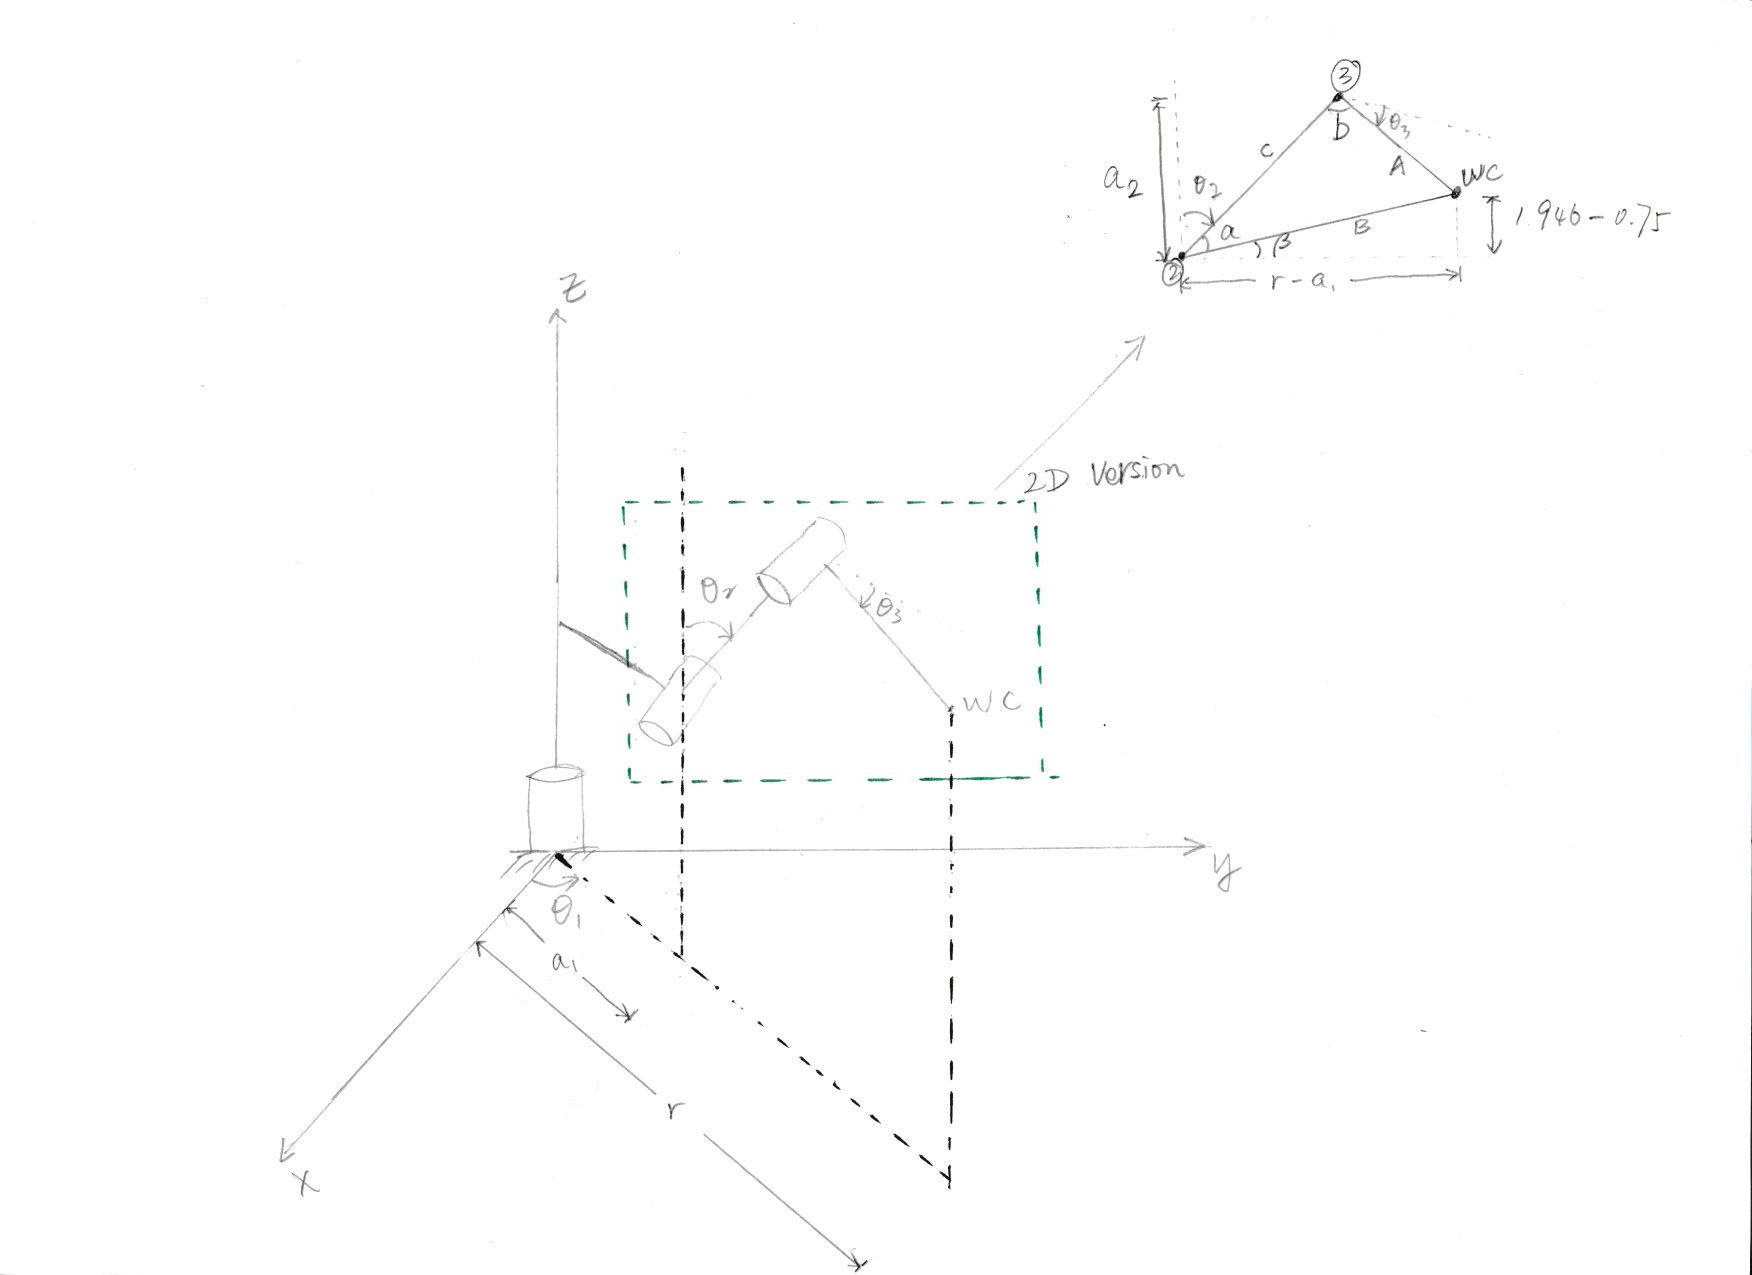
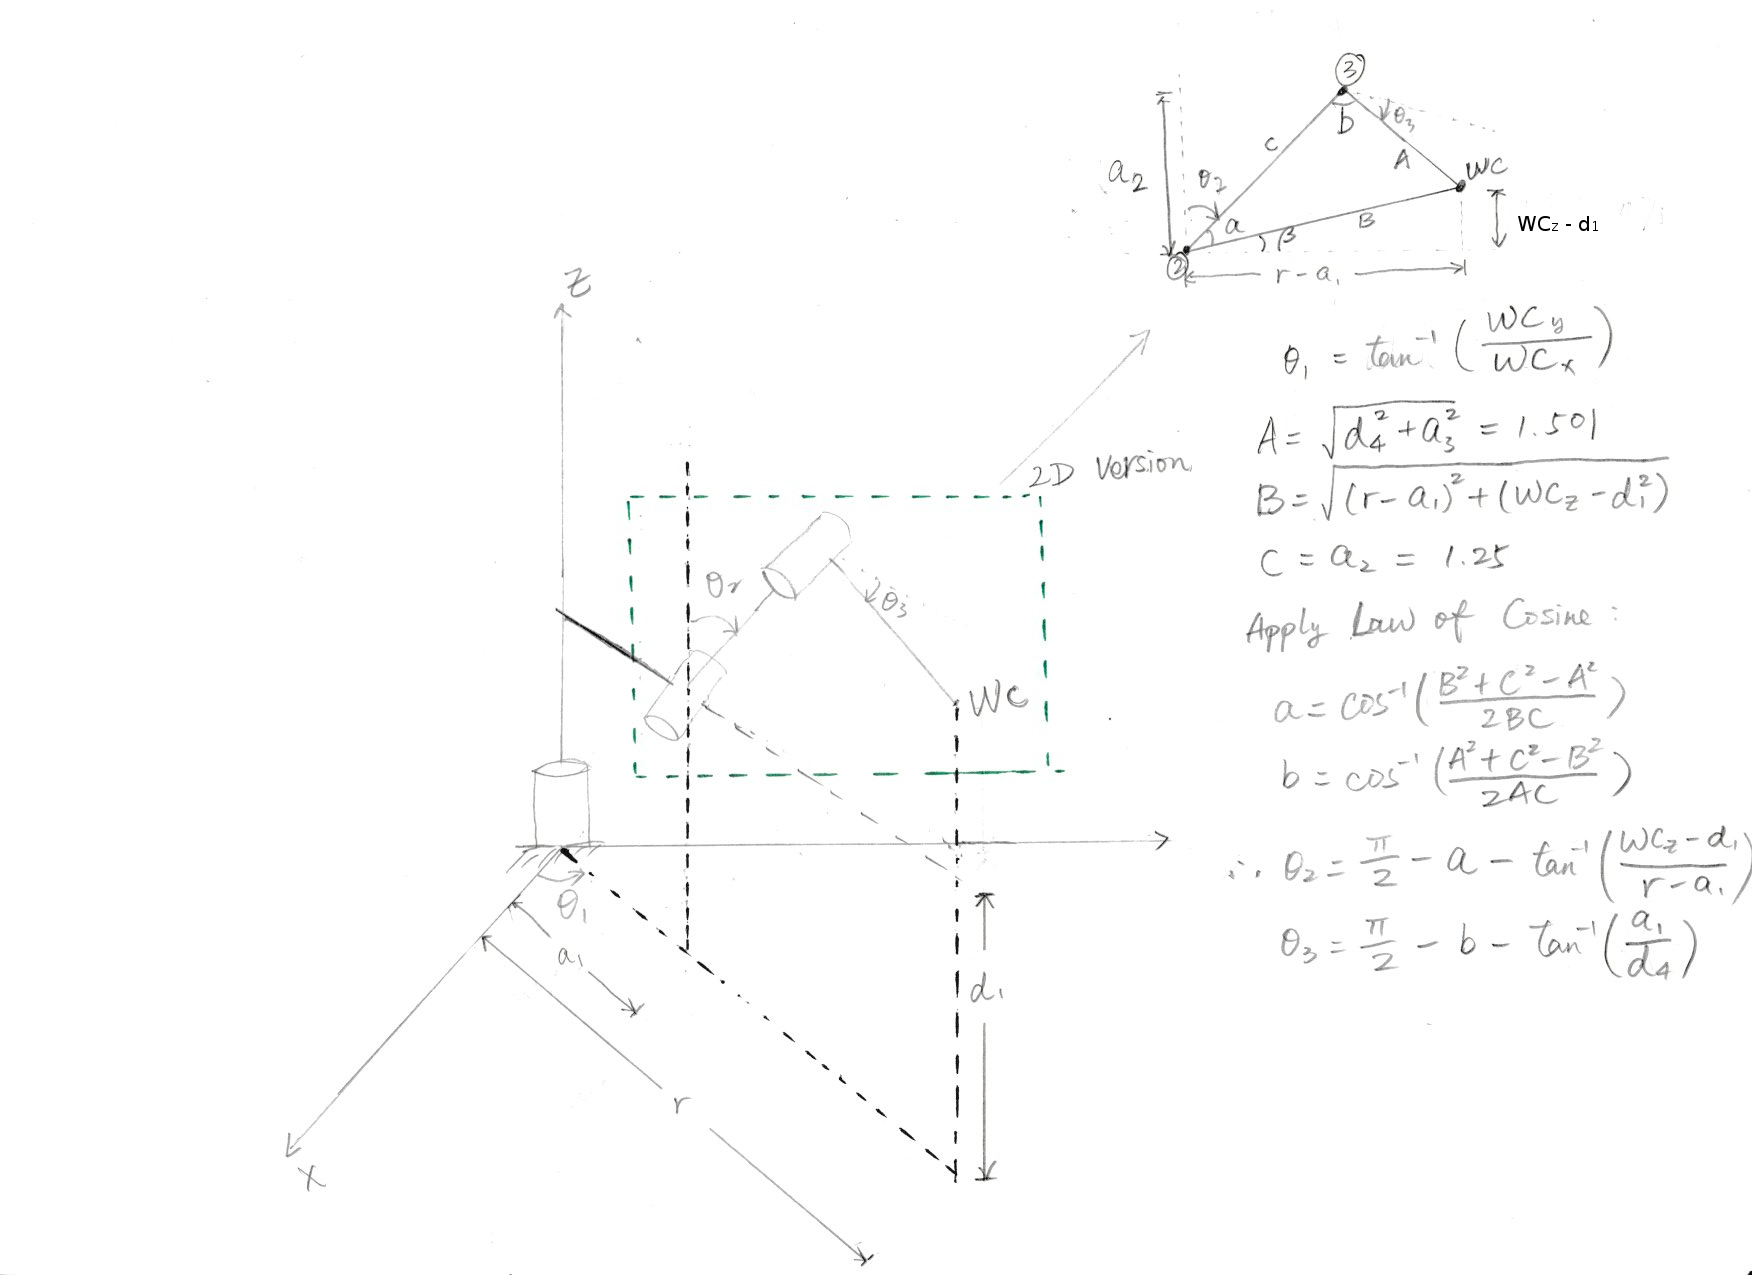
updated

diff --git a/project_2_robotic_arm/src/RoboND-Kinematics-Project/README.md b/project_2_robotic_arm/src/RoboND-Kinematics-Project/README.md
@@ -14,7 +14,6 @@ This project focuses on controlling kuka arm to pick up target and drop it into 
 [mat]: ./img/matrix.png
 [wc]: ./img/wc_cal.png
 [wc_math]: ./img/wc_cal_math.png
-[equ]: ./img/CodeCogsEqn.gif
 
 ## Project Procedure
 ### Obtain DH parameter table
@@ -109,22 +108,43 @@ To compute the wrist center analytically, one can use equation:
 where <sup>0</sup><sub>6</sub>R is the rotation from base_link to joint 6 and d is the d<sub>G</sub> in the DH parameter table. Since the end-effector position and orientation are known, <sup>0</sup><sub>6</sub>R is just the rotation matrix of the end-effector. 
 
 ##### Inverse Orientation Kinematics
-Now we have wrist center figured out, the joint angles for the first three joints are next to calculate. The sketch below helps in the calculation:
-
+Now we have wrist center figured out, the joint angles for the first three joints are next to calculate. The sketch below shows the problem setup and calculations for the first three joints. 
 ![sketch]
 
-![equ]
+With theta1, theta2, theta3 computed, one can apply the forward kinematics matrices for the first three joints. As a result, 
+```
+<sup>0</sup><sub>3</sub>R = T0_1[0:3, 0:3] * T1_2[0:3,0:3] * T2_3[0:3,0:3]
+```
+One can use the equation in Forward Kinematics section to derive the rotation from joint 3 to joint 6:
+```
+<sup>0</sup><sub>6</sub>R = <sup>0</sup><sub>3</sub>R * <sup>3</sup><sub>6</sub>R
+```
+Hence,
+```
+<sup>3</sup><sub>6</sub>R = (<sup>0</sup><sub>3</sub>R)<sup>T</sup> * <sup>0</sup><sub>6</sub>R 
+```
+Here, we use the fact that rotation matrix is orthonormal so its inverse is the transpose. Since we have numerical representation of the matrix, as well as the symbolic representation (expression below), we can associate the numerical value and corresponding expression to obtain remaining joint angles 
 
+```
+R3_6 = Matrix([
+			  [-sin(q4)*sin(q6) + cos(q4)*cos(q5)*cos(q6), -sin(q4)*cos(q6) - sin(q6)*cos(q4)*cos(q5), -sin(q5)*cos(q4)],
+			  [sin(q5)*cos(q6),                           -sin(q5)*sin(q6),          cos(q5)],
+			  [-sin(q4)*cos(q5)*cos(q6) - sin(q6)*cos(q4),  sin(q4)*sin(q6)*cos(q5) - cos(q4)*cos(q6),  sin(q4)*sin(q5)]])
+```
 
-### Project Implementation
+Joint angles can be found with numerical `R3_6`:
+```
+theta4 = atan2(R3_6[2,2], -R3_6[0,2])
+theta5 = atan2(sqrt(R3_6[0,2]**2 + R3_6[2,2]**2), R3_6[1,2])
+theta6 = atan2(-R3_6[1,1], R3_6[1,0])
+```
+Note that `atan2` is used for the angles because it takes appropriate angle sign into account, avoiding angle ambiguity. 
 
-#### 1. Fill in the `IK_server.py` file with properly commented python code for calculating Inverse Kinematics based on previously performed Kinematic Analysis. Your code must guide the robot to successfully complete 8/10 pick and place cycles. Briefly discuss the code you implemented and your results. 
+### Result
+`IK_server.py` is filled in with the joint angle solution in the above section. The pick and place process is shown below,
 
+![motion]
 
-Here I'll talk about the code, what techniques I used, what worked and why, where the implementation might fail and how I might improve it if I were going to pursue this project further.  
+By running the process couple more times, the kuka arm is able to complete the tasks 10/10. 
 
-
-And just for fun, another example image:
-![alt text][image3]
-
-
+![result]
